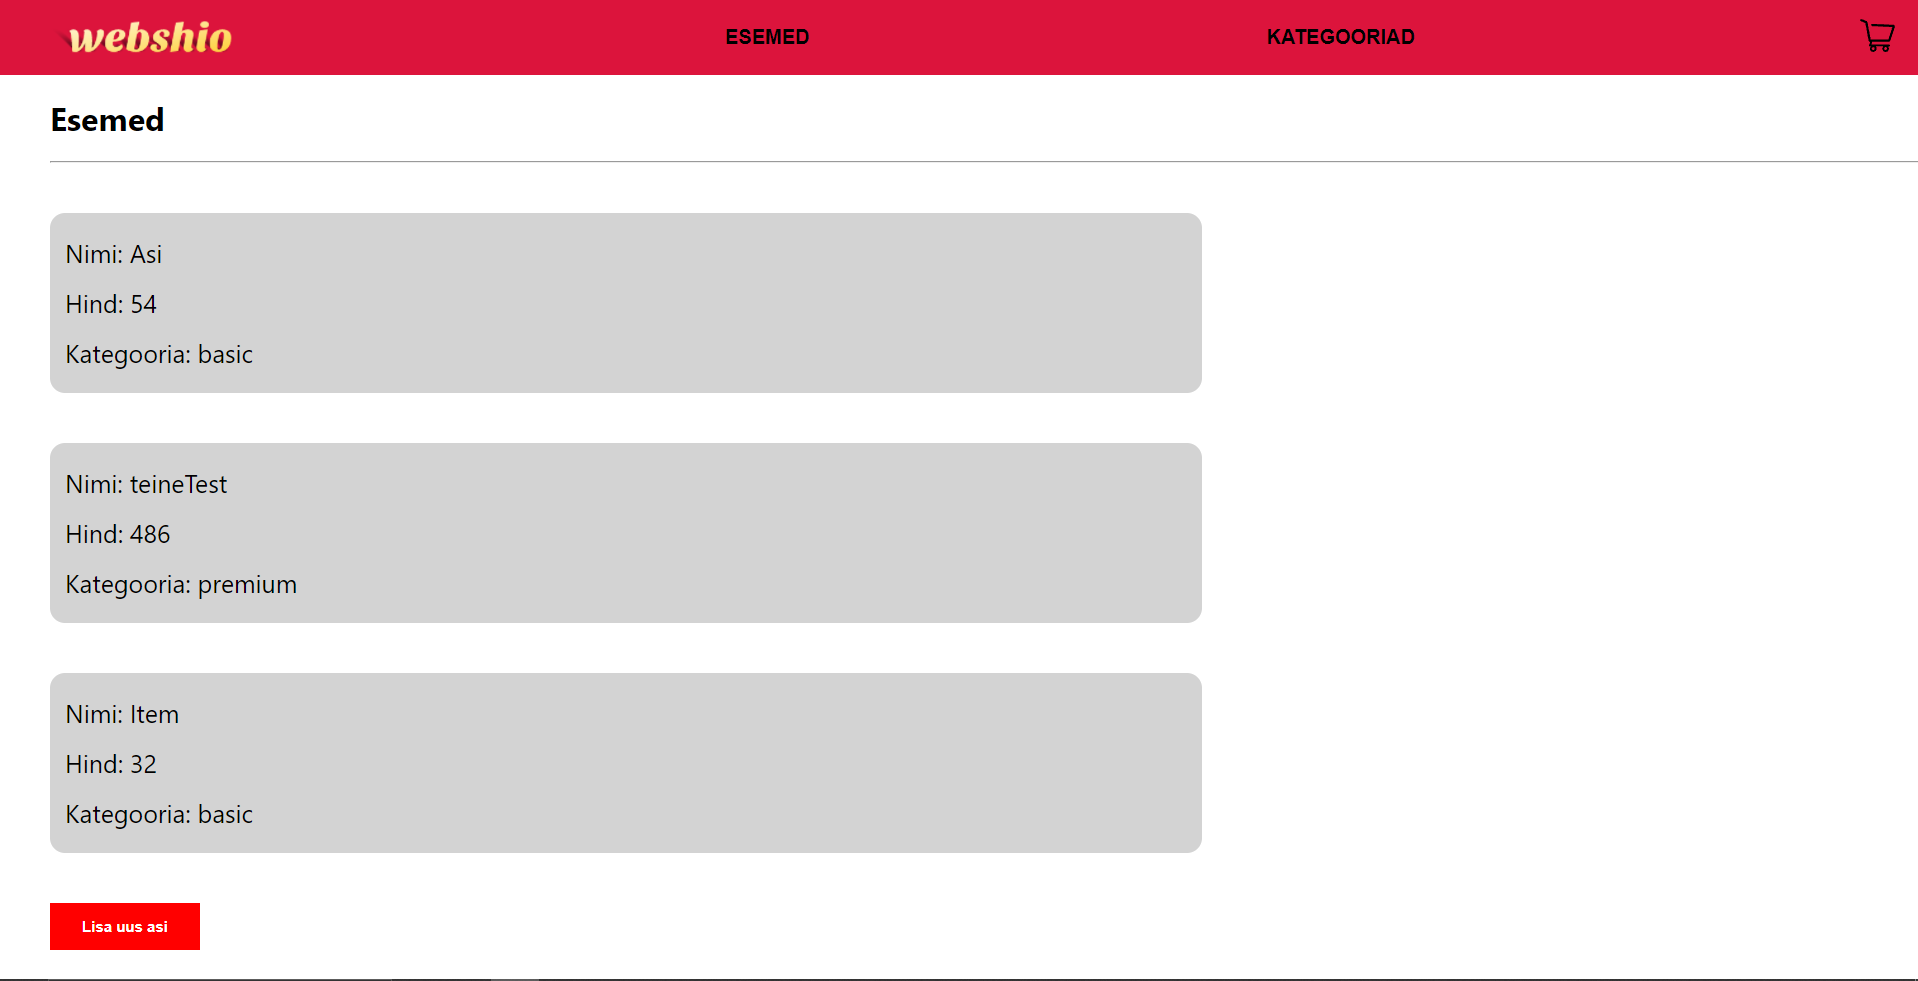
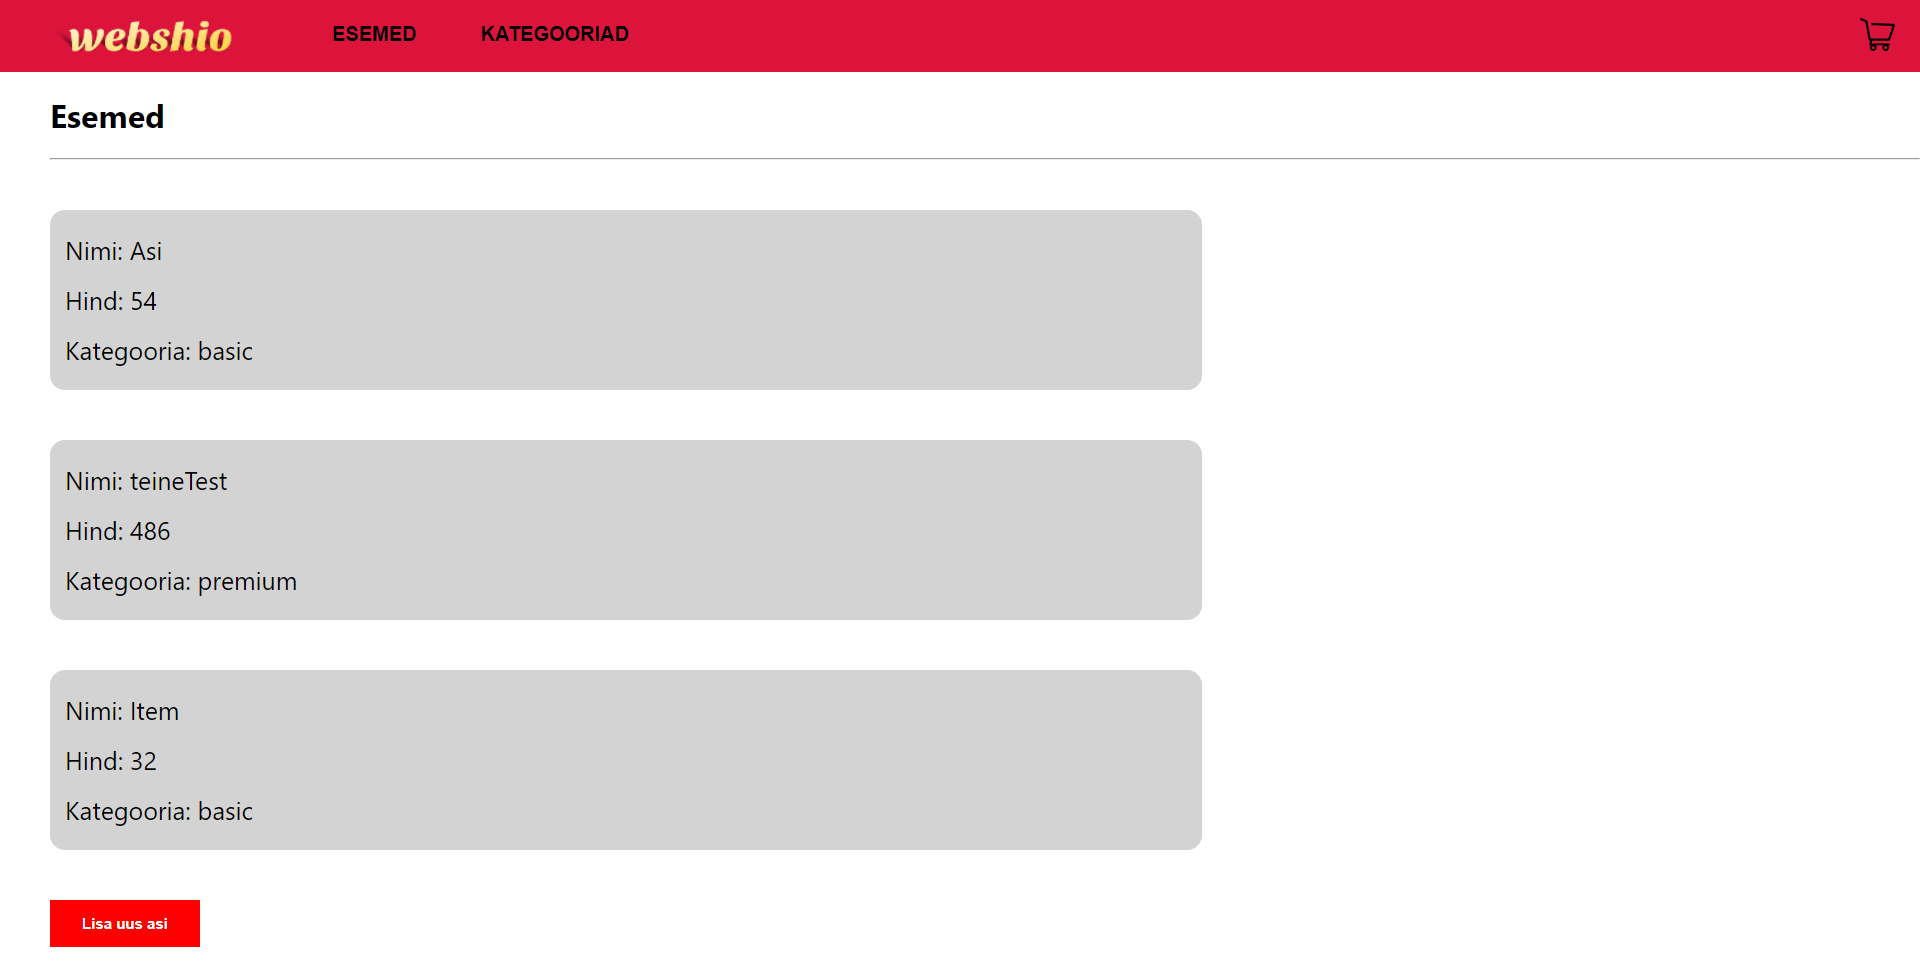
kodutoo3

diff --git a/frontend/src/components/Navbar.js b/frontend/src/components/Navbar.js
@@ -9,15 +9,17 @@ function Navbar () {
             <Link to='/'>
                 <img className="logo" src='webshio.png' alt='logo' />
             </Link>
-            <Link to='/items' className="link">
+            <Link to='/items'>
                 <button>ESEMED</button>
             </Link>
-            <Link to='/categories' className="link">
+            <Link to='/categories'>
                 <button>KATEGOORIAD</button>
             </Link>
-            <Link to='/cart'>
-                <img className="cart" src="cart.svg" alt="cart"/>
-            </Link>
+            <div className="navbar-right">
+                <Link to='/cart'>
+                    <img className="cart" src="cart.svg" alt="cart"/>
+                </Link>
+            </div>
         </div>
 
         </>

diff --git a/frontend/src/components/Navbar.css b/frontend/src/components/Navbar.css
@@ -1,9 +1,7 @@
 .navbar {
   background-color: crimson;
   height: 75px;
-  justify-content:space-between;
   display: flex;
-  align-items: center;
   
 }
 
@@ -22,14 +20,18 @@
   font-size: 20px;
 } */
 
-.navbar .link {
+/* .navbar .link {
   text-decoration: none;
   color:black;
   margin: 0;
   padding: 0;
-}
+} */
 
+.navbar .navbar-right {
+  margin-left: auto;
+}
 .navbar button {
+  float: left;
   height: 100%;
   background-color: crimson;
   text-align: center;
